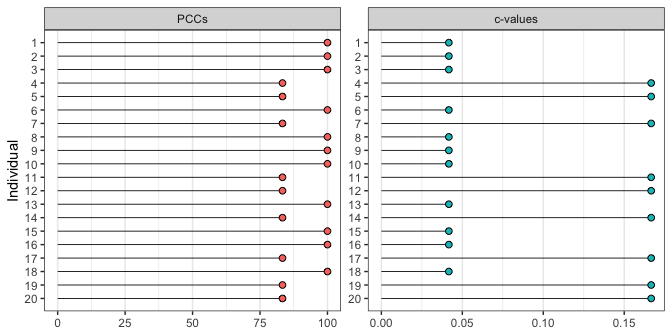
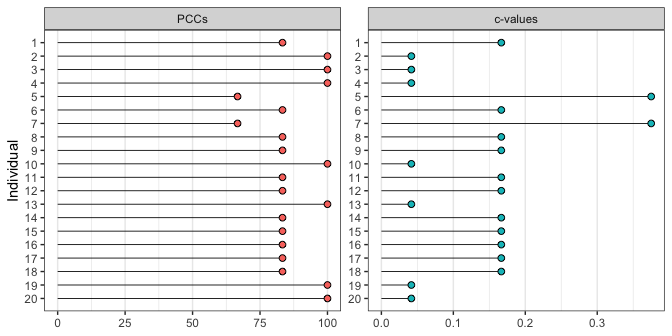
update README

diff --git a/README.md b/README.md
@@ -110,26 +110,26 @@ dat <- data.frame(t1 = rnorm(20, mean = 12, sd = 2),
                   
 round(dat, 2)
 #>       t1    t2    t3    t4
-#> 1  15.03 16.16 20.13 16.87
-#> 2   9.79 15.85 21.00 20.76
-#> 3  11.43 15.12 20.41 15.42
-#> 4  11.02 16.03 22.30 14.49
-#> 5  11.95 18.35 18.37 19.08
-#> 6  15.10 15.62 18.88 17.68
-#> 7  10.68 17.91 18.23 18.29
-#> 8  12.03 15.15 19.81 19.40
-#> 9  12.46 15.15 19.37 16.55
-#> 10  9.39 13.41 19.97 17.12
-#> 11  8.14 17.32 18.26 13.96
-#> 12 13.56 15.01 25.51 14.91
-#> 13 10.95 11.16 22.56 15.54
-#> 14 14.08 13.87 21.67 17.84
-#> 15 13.34 14.10 18.52 14.65
-#> 16 11.50 14.41 19.78 16.12
-#> 17  8.49 13.84 16.40 18.13
-#> 18 12.13 15.63 19.84 18.06
-#> 19 10.48 16.85 19.96 14.96
-#> 20 11.96 12.81 18.21 19.21
+#> 1  11.66 18.95 22.11 16.33
+#> 2  11.85 14.23 20.20 15.34
+#> 3  11.86 17.00 23.51 17.97
+#> 4  13.56 14.73 20.68 17.45
+#> 5  14.67 15.34 20.56 13.33
+#> 6  12.18 17.77 21.94 16.11
+#> 7  12.15 20.80 19.75 15.58
+#> 8  10.90 16.06 19.82 15.74
+#> 9  14.30 18.92 19.48 16.62
+#> 10 12.27 12.98 22.06 18.41
+#> 11  8.77 18.49 19.35 17.10
+#> 12  9.85 14.07 17.97 19.28
+#> 13 11.15 11.87 21.41 14.09
+#> 14 13.86 13.52 23.71 17.31
+#> 15 14.75 12.75 21.92 19.35
+#> 16 11.53 17.25 21.35 17.10
+#> 17 13.71 15.46 16.88 18.13
+#> 18 11.76  9.66 21.17 16.39
+#> 19 12.28 15.61 19.65 17.85
+#> 20 10.25 12.09 21.09 16.69
 ```
 
 An ordinal pattern analysis model to consider how the hypothesis `h`
@@ -147,30 +147,30 @@ summary(opamod)
 #> 
 #> Between subjects results:
 #>         PCC cval
-#> pooled 92.5  0.1
+#> pooled 87.5 0.14
 #> 
 #> Within subjects results:
 #>       PCC cval
-#> 1  100.00 0.04
+#> 1   83.33 0.17
 #> 2  100.00 0.04
 #> 3  100.00 0.04
-#> 4   83.33 0.17
-#> 5   83.33 0.17
-#> 6  100.00 0.04
-#> 7   83.33 0.17
-#> 8  100.00 0.04
-#> 9  100.00 0.04
+#> 4  100.00 0.04
+#> 5   66.67 0.38
+#> 6   83.33 0.17
+#> 7   66.67 0.38
+#> 8   83.33 0.17
+#> 9   83.33 0.17
 #> 10 100.00 0.04
 #> 11  83.33 0.17
 #> 12  83.33 0.17
 #> 13 100.00 0.04
 #> 14  83.33 0.17
-#> 15 100.00 0.04
-#> 16 100.00 0.04
+#> 15  83.33 0.17
+#> 16  83.33 0.17
 #> 17  83.33 0.17
-#> 18 100.00 0.04
-#> 19  83.33 0.17
-#> 20  83.33 0.17
+#> 18  83.33 0.17
+#> 19 100.00 0.04
+#> 20 100.00 0.04
 #> 
 #> PCCs were calculated for pairwise ordinal relationships using a difference threshold of 0.
 #> Chance-values were calculated using the exact method.
@@ -189,10 +189,10 @@ accessed with the `condition_pccs` method:
 
 ``` r
 opamod$condition_pccs
-#>      2  3   4
-#> 1 0.95  1 1.0
-#> 2   NA  1 0.8
-#> 3   NA NA 0.8
+#>    2   3  4
+#> 1 85 100 95
+#> 2 NA  95 60
+#> 3 NA  NA 90
 ```
 
 ### Multiple groups
@@ -216,33 +216,33 @@ summary(opamod2)
 #> 
 #> Between subjects results:
 #>     PCC cval
-#> A 93.33 0.09
-#> B 96.67 0.07
-#> C 90.00 0.12
+#> A 83.33 0.18
+#> B 90.00 0.12
+#> C 86.67 0.16
 #> D 90.00 0.12
 #> 
 #> Within subjects results:
 #>   Individual    PCC cval
-#> A          1 100.00 0.04
-#> A          5  83.33 0.17
-#> A          9 100.00 0.04
+#> A          1  83.33 0.17
+#> A          5  66.67 0.38
+#> A          9  83.33 0.17
 #> A         13 100.00 0.04
 #> A         17  83.33 0.17
 #> B          2 100.00 0.04
-#> B          6 100.00 0.04
+#> B          6  83.33 0.17
 #> B         10 100.00 0.04
 #> B         14  83.33 0.17
-#> B         18 100.00 0.04
+#> B         18  83.33 0.17
 #> C          3 100.00 0.04
-#> C          7  83.33 0.17
+#> C          7  66.67 0.38
 #> C         11  83.33 0.17
-#> C         15 100.00 0.04
-#> C         19  83.33 0.17
-#> D          4  83.33 0.17
-#> D          8 100.00 0.04
+#> C         15  83.33 0.17
+#> C         19 100.00 0.04
+#> D          4 100.00 0.04
+#> D          8  83.33 0.17
 #> D         12  83.33 0.17
-#> D         16 100.00 0.04
-#> D         20  83.33 0.17
+#> D         16  83.33 0.17
+#> D         20 100.00 0.04
 #> 
 #> PCCs were calculated for pairwise ordinal relationships using a difference threshold of 0.
 #> Chance-values were calculated using the exact method.
@@ -263,26 +263,26 @@ list and can be accessed with the `condition_pccs` method:
 ``` r
 opamod2$condition_pccs
 #> [[1]]
-#>    2  3   4
-#> 1  1  1 1.0
-#> 2 NA  1 1.0
-#> 3 NA NA 0.6
+#>     2   3  4
+#> 1 100 100 80
+#> 2  NA 100 40
+#> 3  NA  NA 80
 #> 
 #> [[2]]
-#>     2  3 4
-#> 1 0.8  1 1
-#> 2  NA  1 1
-#> 3  NA NA 1
+#>    2   3   4
+#> 1 60 100 100
+#> 2 NA 100  80
+#> 3 NA  NA 100
 #> 
 #> [[3]]
-#>    2  3   4
-#> 1  1  1 1.0
-#> 2 NA  1 0.6
-#> 3 NA NA 0.8
+#>    2   3   4
+#> 1 80 100 100
+#> 2 NA  80  60
+#> 3 NA  NA 100
 #> 
 #> [[4]]
-#>    2  3   4
-#> 1  1  1 1.0
-#> 2 NA  1 0.6
-#> 3 NA NA 0.8
+#>     2   3   4
+#> 1 100 100 100
+#> 2  NA 100  60
+#> 3  NA  NA  80
 ```
